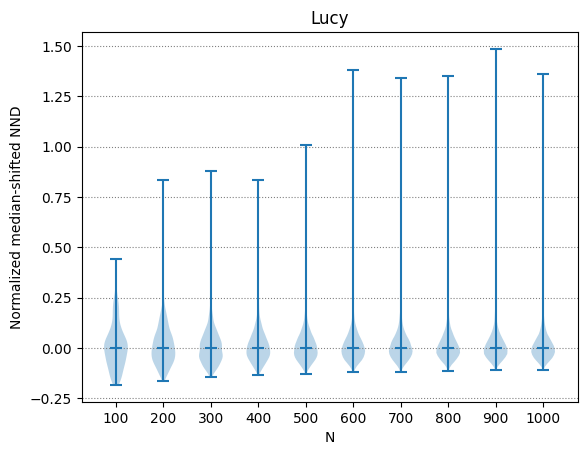
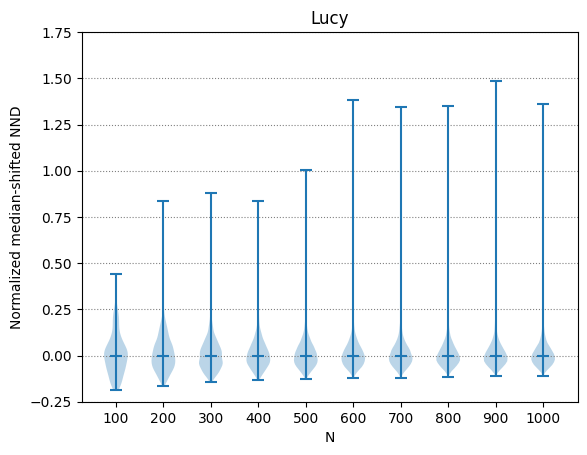
Update plots

diff --git a/analysis/surface_area.py b/analysis/surface_area.py
@@ -21,7 +21,7 @@ model_dict = {
     'Lucy': LUCY
 }
 
-def compute_values() -> tuple[list[str], list[int], list[float]]:
+def compute_values() -> tuple[list[str], list[int], list[list[float]]]:
     device = 'cuda' if torch.cuda.is_available() else 'cpu'
 
     object_names = ['Bunny', 'Buddha', 'Armadillo', 'Dragon', 'Lucy']
@@ -106,6 +106,8 @@ def plot_results(object_names: list[str], N_values: list[int], surface_areas: li
     
     ax.set_ylabel('Surface Area')
     ax.set_xlabel('N')
+    ax.set_xlim([0, 1000])
+    ax.set_ylim(0)
     ax.legend(loc=(1.04, 0), title='Object')
     plt.grid(linestyle='dotted', color='grey')
     fig.savefig(f'{DIR_PATH}.png', bbox_inches="tight")

diff --git a/analysis/hit_rate.py b/analysis/hit_rate.py
@@ -102,6 +102,7 @@ def plot_results(object_names: list[str], N_values: list[int], hit_rates: list[l
         ax.plot(N_values, entry, label=f'{object_names[i]}')
     
     ax.set_ylabel('Hit Rate')
+    ax.set_xlim([0, 1000])
     ax.set_ylim([0, 1.0])
     ax.set_xlabel('N')
     ax.legend(loc=(1.04, 0), title='Object')

diff --git a/analysis/nearest_neighbor.py b/analysis/nearest_neighbor.py
@@ -96,6 +96,7 @@ def plot_results(N_values: list[int], nnd: list[list[float]],  filename: str) ->
 
     ax.set_ylabel('Normalized median-shifted NND')
     ax.set_xlabel('N')
+    ax.set_ylim([-0.25, 1.75])
     ax.set_xticks(range(1, len(N_values) + 1))
     ax.set_xticklabels(N_values)
     ax.set_title(filename)

diff --git a/analysis/equidistant_points.py b/analysis/equidistant_points.py
@@ -39,6 +39,8 @@ def plot_results(N_points: list[int], n_points: list[int]) -> None:
     ax.plot(N_points, n_points)
     ax.set_xlabel('N')
     ax.set_ylabel('n')
+    ax.set_xlim([0, 1000])
+    ax.set_ylim(0)
     plt.grid(linestyle='dotted', color='grey')
     fig.savefig(f'{DIR_PATH}.png')
 
